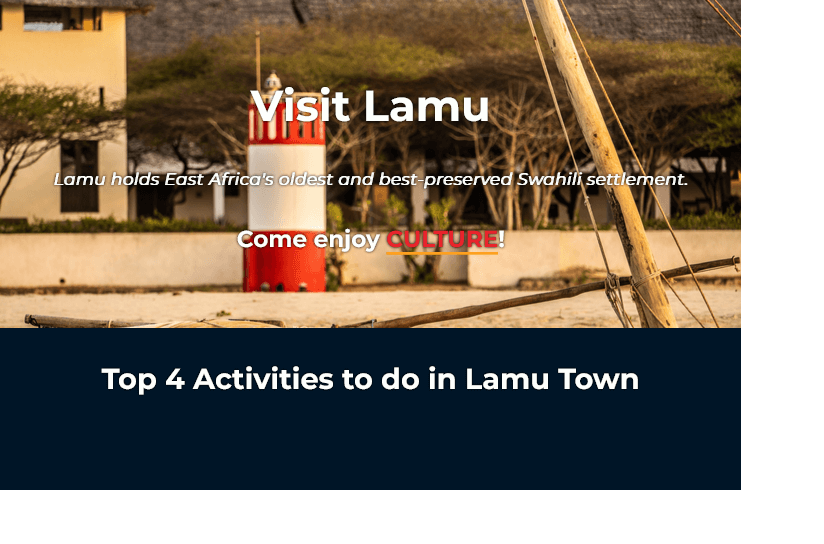
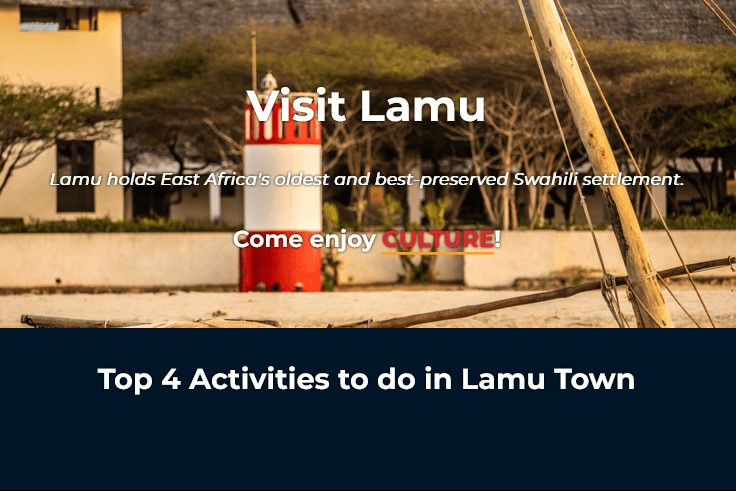
google analytics review

diff --git a/index.html b/index.html
@@ -1,105 +1,114 @@
 <!DOCTYPE html>
 <html lang="en">
-    <head>
-        <meta charset="utf-8">
-        <meta http-equiv="X-UA-Compatible" content="IE=edge">
-        <title>Lamu | Hometown</title>
-        <meta name="description" content="Scrimba Hometown Solo Project">
-        <meta name="viewport" content="width=device-width, initial-scale=1">
-        <!-- Preview -->
-        <meta property="og:image" content="./images/preview.png">
-        <meta property="og:title" content="Lamu | Hometown" >
-        <meta property="og:description" content="Welcome to Lamu, Kenya. Serene, Relaxing, Home.">
-        
-        <!-- Google Fonts -->
-        <link rel="preconnect" href="https://fonts.googleapis.com">
-        <link rel="preconnect" href="https://fonts.gstatic.com" crossorigin>
-        <link href="https://fonts.googleapis.com/css2?family=Montserrat:ital,wght@0,400;0,700;1,400&display=swap" 
-        rel="stylesheet">
-        
-        <!-- CSS -->
-        <link rel="stylesheet" href="./styles.css">
-    </head>
-    <body>
-        <div class="hero">
-            <h1 class="hero-title">Visit Lamu</h1>
-            <h3 class="hero-desc">Lamu holds East Africa's oldest and best-preserved Swahili settlement.</h3>
-            <h4 class="hero-cta">Come enjoy <span id="hero-span">culture</span>!</h4>
-        </div>
-        
-        <div class="activities">
-            <h2 class="activities-title">Top 4 Activities to do in Lamu Town</h2>
 
-            <div class="activity">
-                <img src="/images/tustiri-dhow.jpg"
-                    alt="a dhow sailing into the sunset"
-                    class="activity-img"
-                >
-                <div>
-                    <h2 class="activity-title">Tusitiri Dhow</h2>
-                    <p class="activity-desc">
-                        An uncommonly luxurious and genuine way to experience the Lamu archipelago. Spend nights under the stars while enjoying delectable regional cuisine.
-                    </p>
-                </div>
-            </div>
+<head>
+    <meta charset="utf-8">
+    <meta http-equiv="X-UA-Compatible" content="IE=edge">
+    <title>Lamu | Hometown</title>
+    <meta name="description" content="Scrimba Hometown Solo Project">
+    <meta name="viewport" content="width=device-width, initial-scale=1">
 
-            <hr>
+    <!-- Primary Meta Tags -->
+    <title>Lamu | Hometown</title>
+    <meta name="title" content="Lamu | Hometown">
+    <meta name="description" content="Welcome to Lamu, Kenya. Serene, Relaxing, Home.">
 
-            <div class="activity row-reverse">
-                <img src="/images/Amu-Ranch.jpg"  
-                    alt="a tower of giraffes grazing in amu ranch"
-                    class="activity-img"
-                >
-                <div>
-                    <h2 class="activity-title">Amu Ranch</h2>
-                    <p class="activity-desc">
-                        A breathtaking wilderness of coastal forest and Savannah woodland that serves as an important migratory corridor and wildlife habitat for a variety of endemic animal species, including the Somali Lion and Aders Duiker as well as uncommon marine life and a wide diversity of birds.
-                    </p>
-                </div>
-            </div>
+    <!-- Open Graph / Facebook -->
+    <meta property="og:type" content="website">
+    <meta property="og:url" content="https://jharun-hometown.netlify.app/">
+    <meta property="og:title" content="Lamu | Hometown">
+    <meta property="og:description" content="Welcome to Lamu, Kenya. Serene, Relaxing, Home.">
+    <meta property="og:image" content="./images/preview.png">
 
-            <hr>
+    <!-- Twitter -->
+    <meta property="twitter:card" content="summary_large_image">
+    <meta property="twitter:url" content="https://jharun-hometown.netlify.app/">
+    <meta property="twitter:title" content="Lamu | Hometown">
+    <meta property="twitter:description" content="Welcome to Lamu, Kenya. Serene, Relaxing, Home.">
+    <meta property="twitter:image" content="./images/preview.png">
 
-            <div class="activity">
-                <img src="/images/Shela-Fort.jpg"
-                    alt="shela fort spectacular swimming pool"
-                    class="activity-img"
-                >
-                <div>
-                    <h2 class="activity-title">The Fort of Shela</h2>
-                    <p class="activity-desc">
-                        A stunning and unique haven that provides seclusion and individualized hospitality in a tranquil and serene setting. Nestled among the sand dunes at Shela Beach, this building serves as a tribute to Omani architectural genius.
-                    </p>
-                </div>
-            </div>
 
-            <hr>
-            
-            <div class="activity row-reverse">
-                <img src="/images/Lamu-Museum.jpg"
-                    alt="lamu museum front entrance"
-                    class="activity-img"
-                >
-                <div>
-                    <h2 class="activity-title">Lamu Museum</h2>
-                    <p class="activity-desc">
-                        This double-story medieval mansion, completed in 1892 and located on a waterfront, was originally home of Jack Haggard, Queen Victoria's consul. A recreated Swahili home, artifacts from Takwa, and various siwa, or dhow ceremonial horns, are among the Swahili culture exhibits on display.
-                    </p>
-                </div>
-            </div>
+    <!-- CSS -->
+    <link rel="stylesheet" href="./styles.css">
+</head>
 
-            <hr>
-        </div>
-        
-        <div class="guide">
-            <img src="/images/guide.jpg" class="guide-avatar" alt="portrait of juma harun">
+<body>
+    <div class="hero">
+        <h1 class="hero-title">Visit Lamu</h1>
+        <h3 class="hero-desc">Lamu holds East Africa's oldest and best-preserved Swahili settlement.</h3>
+        <h4 class="hero-cta">Come enjoy <span id="hero-span">culture</span>!</h4>
+    </div>
 
+    <div class="activities">
+        <h2 class="activities-title">Top 4 Activities to do in Lamu Town</h2>
+
+        <div class="activity">
+            <img src="/images/tustiri-dhow.jpg" alt="a dhow sailing into the sunset" class="activity-img">
             <div>
-                <h2 class="guide-title">Your Guide</h2>
-                <p class="guide-desc">
-                    Since I've been a resident of Lamu for more than 20 years, I can show you all of its best features and undiscovered gems.
+                <h3 class="activity-title">Tusitiri Dhow</h3>
+                <p class="activity-desc">
+                    An uncommonly luxurious and genuine way to experience the Lamu archipelago. Spend nights under the
+                    stars while enjoying delectable regional cuisine.
                 </p>
             </div>
         </div>
-    </body>
+
+        <hr>
+
+        <div class="activity row-reverse">
+            <img src="/images/Amu-Ranch.jpg" alt="a tower of giraffes grazing in amu ranch" class="activity-img">
+            <div>
+                <h3 class="activity-title">Amu Ranch</h3>
+                <p class="activity-desc">
+                    A breathtaking wilderness of coastal forest and Savannah woodland that serves as an important
+                    migratory corridor and wildlife habitat for a variety of endemic animal species, including the
+                    Somali Lion and Aders Duiker as well as uncommon marine life and a wide diversity of birds.
+                </p>
+            </div>
+        </div>
+
+        <hr>
+
+        <div class="activity">
+            <img src="/images/Shela-Fort.jpg" alt="shela fort spectacular swimming pool" class="activity-img">
+            <div>
+                <h3 class="activity-title">The Fort of Shela</h3>
+                <p class="activity-desc">
+                    A stunning and unique haven that provides seclusion and individualized hospitality in a tranquil and
+                    serene setting. Nestled among the sand dunes at Shela Beach, this building serves as a tribute to
+                    Omani architectural genius.
+                </p>
+            </div>
+        </div>
+
+        <hr>
+
+        <div class="activity row-reverse">
+            <img src="/images/Lamu-Museum.jpg" alt="lamu museum front entrance" class="activity-img">
+            <div>
+                <h3 class="activity-title">Lamu Museum</h3>
+                <p class="activity-desc">
+                    This double-story medieval mansion, completed in 1892 and located on a waterfront, was originally
+                    home of Jack Haggard, Queen Victoria's consul. A recreated Swahili home, artifacts from Takwa, and
+                    various siwa, or dhow ceremonial horns, are among the Swahili culture exhibits on display.
+                </p>
+            </div>
+        </div>
+
+        <hr>
+    </div>
+
+    <div class="guide">
+        <img src="/images/guide.jpg" class="guide-avatar" alt="portrait of juma harun">
+
+        <div>
+            <h2 class="guide-title">Your Guide</h2>
+            <p class="guide-desc">
+                Since I've been a resident of Lamu for more than 20 years, I can show you all of its best features and
+                undiscovered gems.
+            </p>
+        </div>
+    </div>
+</body>
+
 </html>

diff --git a/styles.css b/styles.css
@@ -1,3 +1,5 @@
+@import url("https://fonts.googleapis.com/css2?family=Montserrat:ital,wght@0,400;0,700;1,400;1,700&display=swap");
+
 *,
 *::before,
 *::after {
@@ -135,11 +137,7 @@ hr {
   border-color: rgba(255, 255, 255, 0.3);
 }
 
-@media (max-width: 42em) {
-  body {
-    font-size: 14px;
-  }
-
+@media (max-width: 45em) {
   .activity {
     flex-direction: column;
   }
@@ -150,5 +148,11 @@ hr {
 
   hr {
     margin-bottom: 1em;
+  }
+}
+
+@media (max-width: 30em) {
+  body {
+    font-size: 14px;
   }
 }
